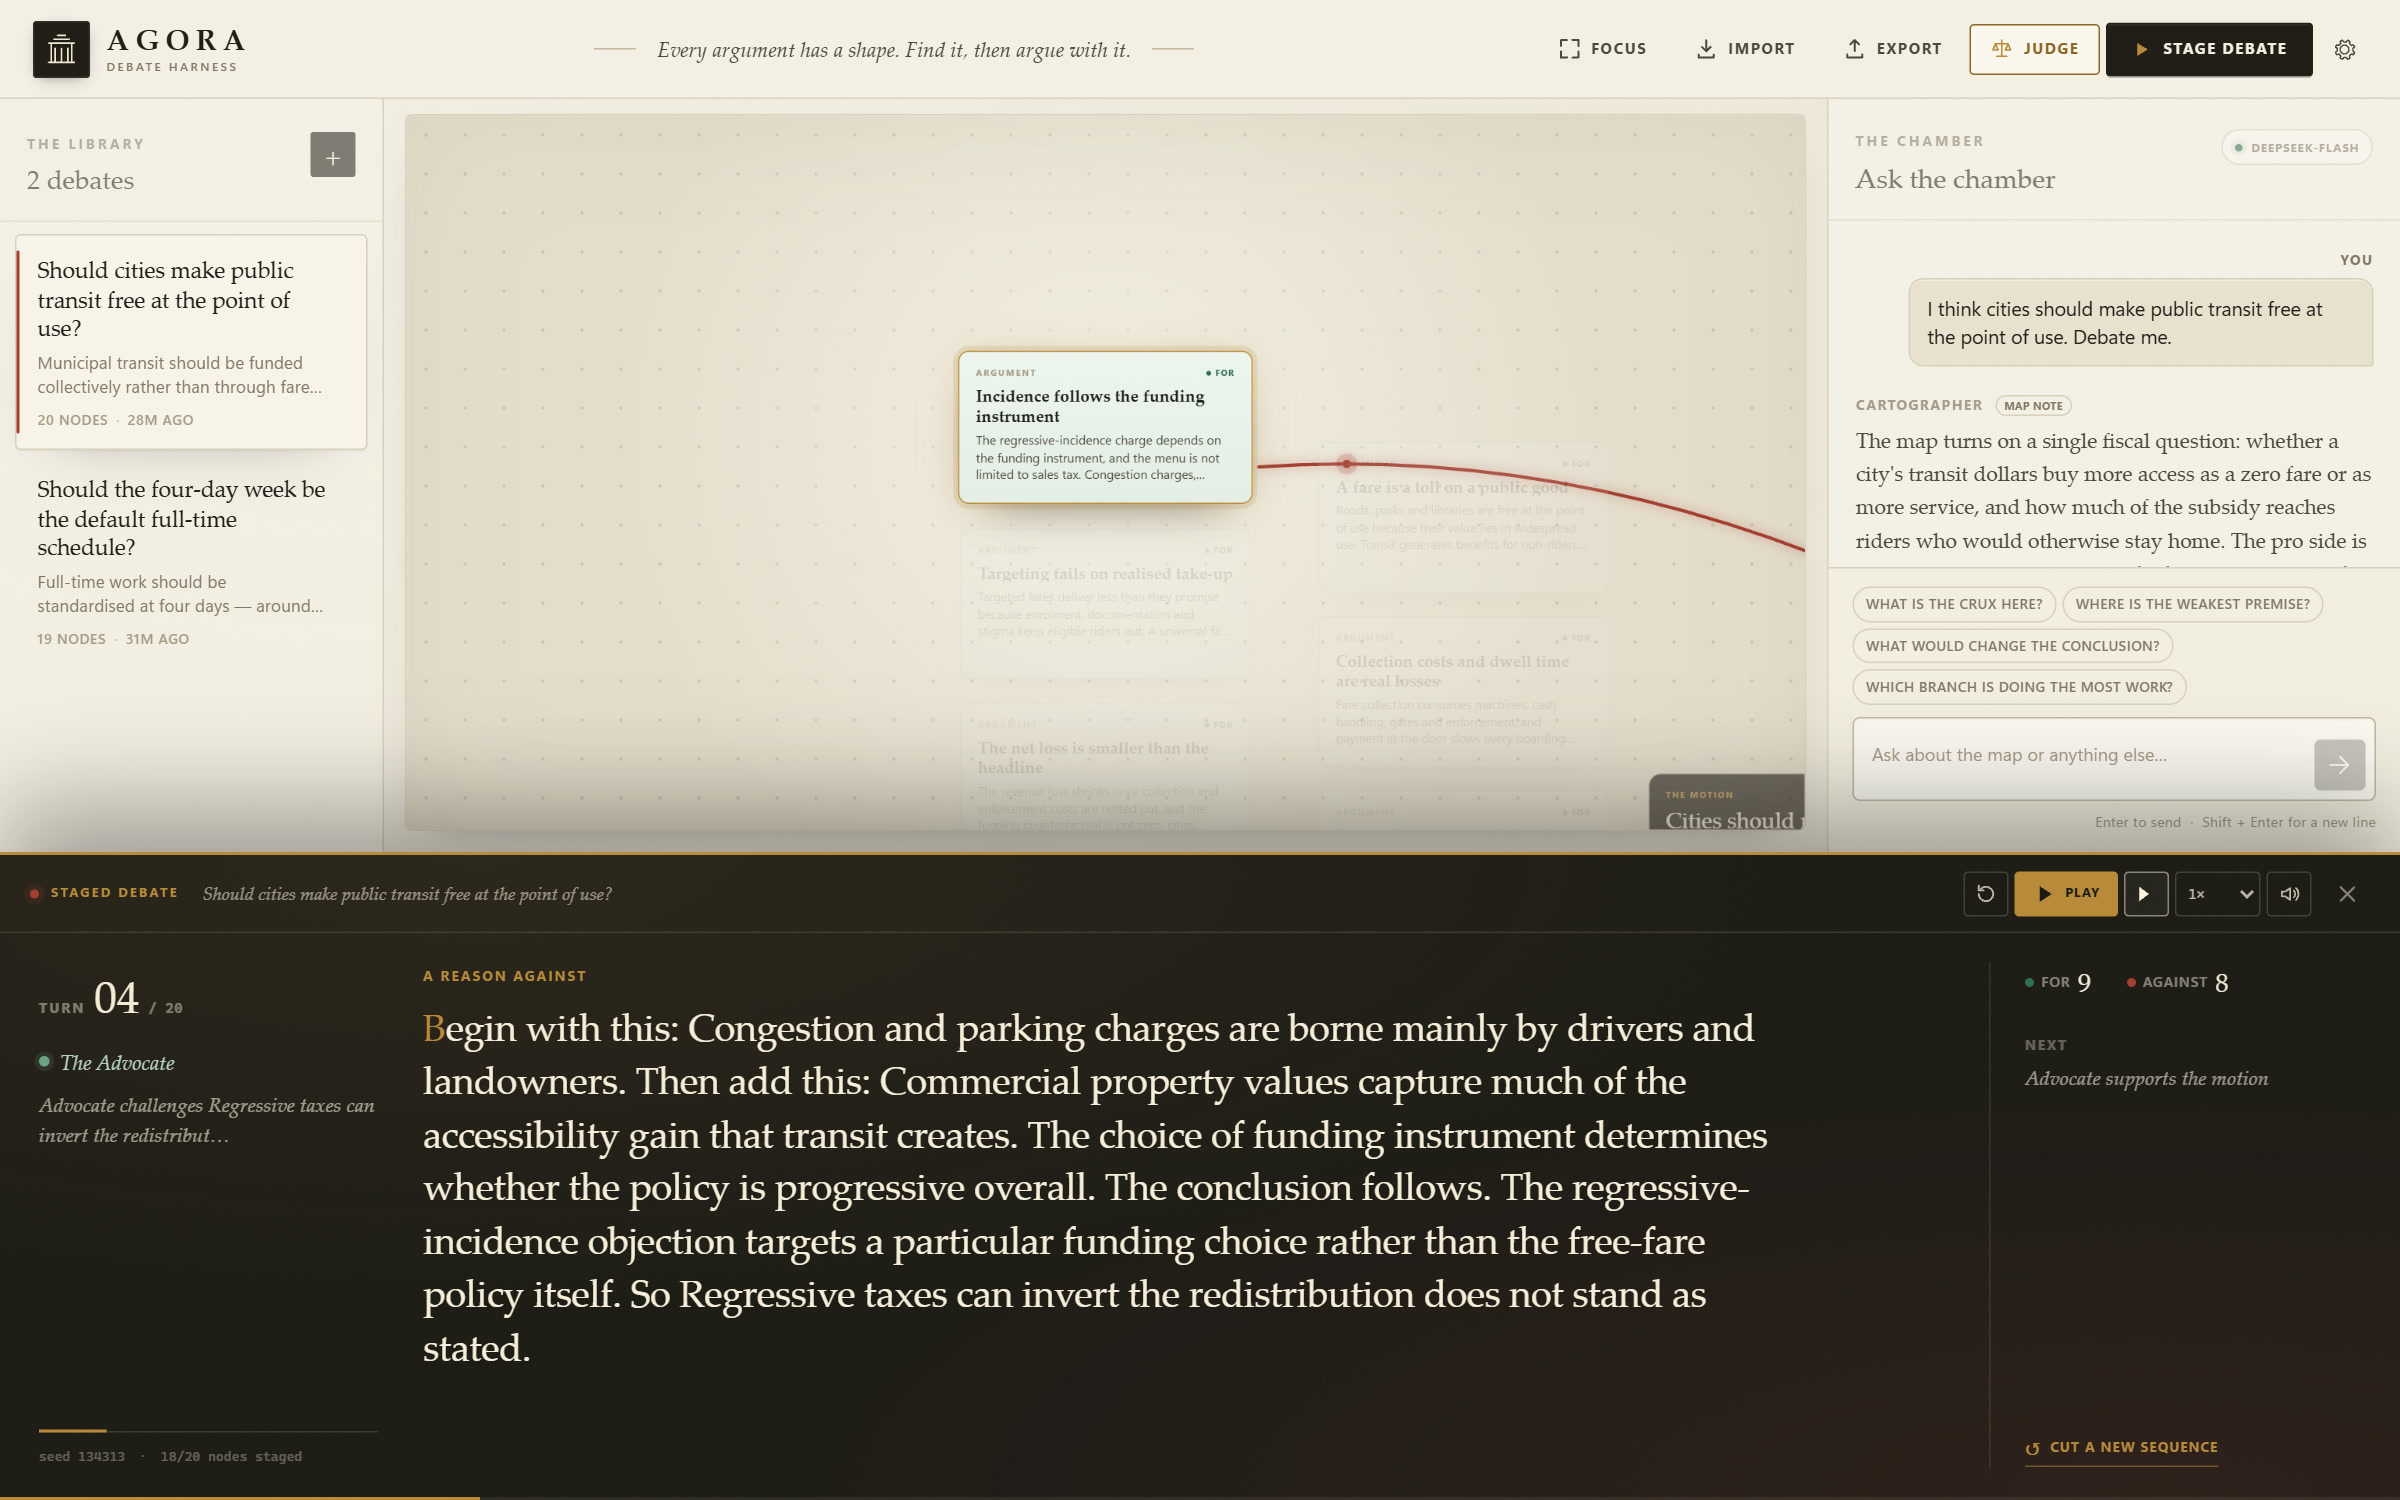
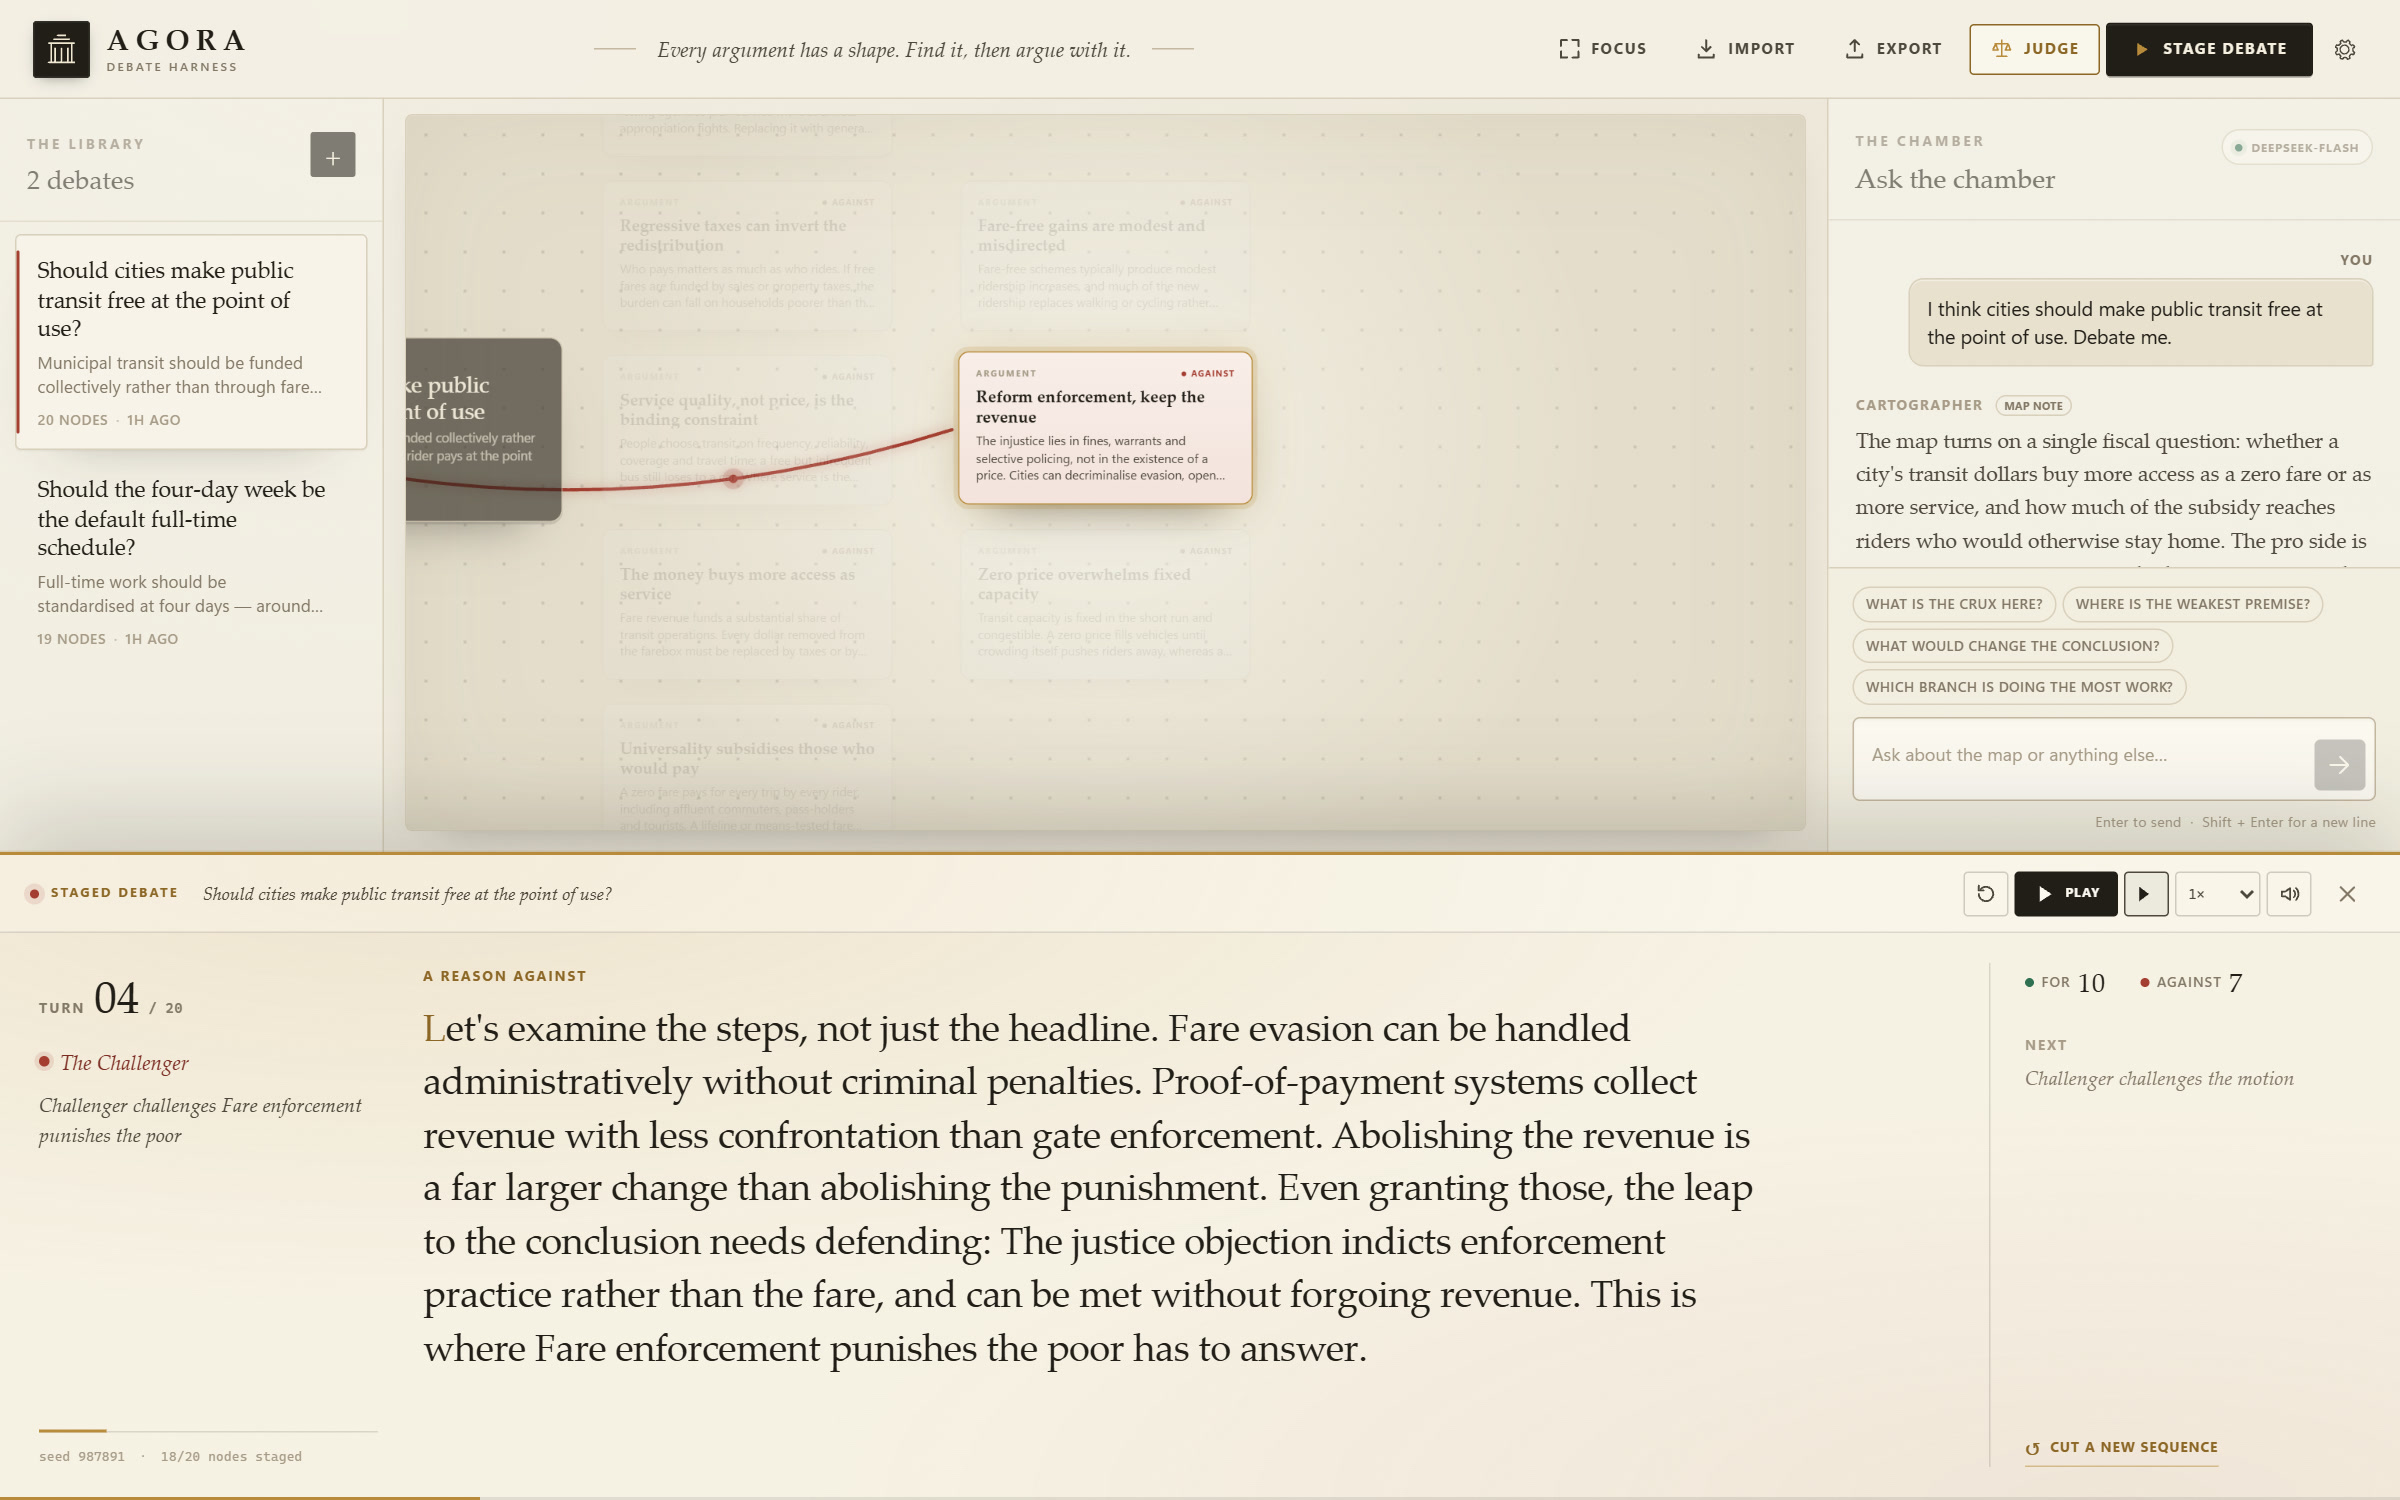
feat: add daylight stage for light mode

diff --git a/src/ui/light.css b/src/ui/light.css
@@ -1,0 +1,107 @@
+/* ------------------------------------------------------------------ */
+/* Editorial paper — a daylight stage                                  */
+/* ------------------------------------------------------------------ */
+
+html[data-theme="light"] .stage-panel {
+  color: var(--ink);
+  background:
+    radial-gradient(ellipse at 18% 0%, rgba(185, 138, 58, 0.13), transparent 50%),
+    radial-gradient(ellipse at 88% 100%, rgba(165, 61, 49, 0.07), transparent 45%),
+    #f8f2e6;
+  border-top-color: var(--gold);
+  box-shadow: 0 -26px 60px rgba(33, 29, 24, 0.16), 0 -1px 0 rgba(185, 138, 58, 0.2);
+}
+html[data-theme="light"] .stage-panel::before { opacity: 0.24; }
+
+html[data-theme="light"] .stage-head {
+  background: rgba(255, 253, 247, 0.32);
+  border-bottom-color: rgba(33, 29, 24, 0.14);
+}
+html[data-theme="light"] .stage-brand { color: var(--gold-deep); }
+html[data-theme="light"] .stage-live-dot {
+  background: var(--con);
+  box-shadow: 0 0 0 4px rgba(165, 61, 49, 0.12);
+}
+html[data-theme="light"] .stage-motion { color: var(--ink-soft); }
+html[data-theme="light"] .stage-icon-btn {
+  border-color: rgba(33, 29, 24, 0.2);
+  color: var(--ink-soft);
+}
+html[data-theme="light"] .stage-icon-btn:hover:not(:disabled) {
+  border-color: var(--ink-soft);
+  color: var(--ink);
+  background: rgba(33, 29, 24, 0.06);
+}
+html[data-theme="light"] .stage-icon-btn.is-on {
+  color: var(--gold-deep);
+  border-color: var(--gold);
+  background: var(--gold-soft);
+}
+html[data-theme="light"] .stage-play-btn {
+  background: var(--ink);
+  border-color: var(--ink);
+  color: var(--surface-strong);
+}
+html[data-theme="light"] .stage-play-btn:hover {
+  background: var(--con-deep);
+  border-color: var(--con-deep);
+}
+html[data-theme="light"] .stage-speed select {
+  border-color: rgba(33, 29, 24, 0.2);
+  color: var(--ink-soft);
+}
+html[data-theme="light"] .stage-speed select option {
+  background: var(--surface-strong);
+  color: var(--ink);
+}
+html[data-theme="light"] .stage-close-btn {
+  color: var(--muted);
+}
+html[data-theme="light"] .stage-close-btn:hover {
+  color: var(--ink);
+  background: rgba(33, 29, 24, 0.07);
+}
+
+html[data-theme="light"] .stage-turn-no { color: var(--muted); }
+html[data-theme="light"] .stage-turn-no b { color: var(--ink); }
+html[data-theme="light"] .stage-speaker { color: var(--ink); }
+html[data-theme="light"] .speaker--advocate { color: var(--pro-deep); }
+html[data-theme="light"] .speaker--advocate .stage-speaker-dot {
+  background: var(--pro-deep);
+  box-shadow: 0 0 0 3px rgba(47, 111, 83, 0.13);
+}
+html[data-theme="light"] .speaker--challenger { color: var(--con-deep); }
+html[data-theme="light"] .speaker--challenger .stage-speaker-dot {
+  background: var(--con);
+  box-shadow: 0 0 0 3px rgba(165, 61, 49, 0.13);
+}
+html[data-theme="light"] .speaker--you { color: var(--gold-deep); }
+html[data-theme="light"] .speaker--you .stage-speaker-dot {
+  background: var(--gold);
+  box-shadow: 0 0 0 3px rgba(185, 138, 58, 0.15);
+}
+html[data-theme="light"] .speaker--moderator { color: var(--ink-soft); }
+html[data-theme="light"] .speaker--moderator .stage-speaker-dot { background: var(--muted); }
+html[data-theme="light"] .stage-heading { color: var(--ink-soft); }
+html[data-theme="light"] .stage-progress { background: rgba(33, 29, 24, 0.14); }
+html[data-theme="light"] .stage-progress i { background: var(--gold); }
+html[data-theme="light"] .stage-seed { color: var(--faint); }
+
+html[data-theme="light"] .stage-kicker { color: var(--gold-deep); }
+html[data-theme="light"] .stage-text { color: var(--ink); }
+html[data-theme="light"] .stage-text::first-letter { color: var(--gold-deep); }
+html[data-theme="light"] .stage-right { border-left-color: rgba(33, 29, 24, 0.14); }
+html[data-theme="light"] .stage-score span { color: var(--muted); }
+html[data-theme="light"] .stage-score b { color: var(--ink); }
+html[data-theme="light"] .stage-next-label { color: var(--faint); }
+html[data-theme="light"] .stage-next { color: var(--muted); }
+html[data-theme="light"] .stage-shuffle {
+  color: var(--gold-deep);
+  border-bottom-color: rgba(185, 138, 58, 0.5);
+}
+html[data-theme="light"] .stage-shuffle:hover {
+  color: var(--con-deep);
+  border-color: var(--con-deep);
+}
+html[data-theme="light"] .stage-progress-bar { background: rgba(33, 29, 24, 0.1); }
+html[data-theme="light"] .stage-progress-bar i { background: var(--gold); }

diff --git a/src/ui/main.tsx b/src/ui/main.tsx
@@ -5,6 +5,7 @@ import { initTheme } from "./theme";
 import "./styles.css";
 import "./dark.css";
 import "./aurora.css";
+import "./light.css";
 
 initTheme();
 

diff --git a/README.md b/README.md
@@ -276,9 +276,10 @@ src/
   ui/
     App.tsx             workspace, library, chamber, stage controller, judgment controller
     components/         DebateGraph, ChatPanel, StagePanel, NodeInspector, JudgmentModal, JudgmentPanel, Modals
-    styles.css          editorial paper / library ink / dark wood stage
+    styles.css          editorial paper / library ink / shared stage
     dark.css            Night Reading Room — warm dark palette
     aurora.css          Aurora — cool low-light palette
+    light.css           Editorial paper — daylight stage
 ```
 
 The domain layer is shared by server and browser. The graph layout and staging algorithm are deterministic given a seed, so the same map stages identically in a test and in the browser.
@@ -338,7 +339,7 @@ See [`SECURITY.md`](SECURITY.md) for the current beta's security limitations, in
 
 ## Why the name
 
-The agora was the public square where a city argued with itself. The interface is deliberately editorial: warm paper, serif headings, ink for the motion, faded red for the challenge, and a dark wood stage for the performance. Aurora keeps that structure while moving the light to a cool, low-light reading room. The map is the argument; the stage is the argument being made; the bench is the argument being judged.
+The agora was the public square where a city argued with itself. The interface is deliberately editorial: warm paper, serif headings, ink for the motion, faded red for the challenge, and a stage that follows the light: dark wood at night, daylight paper by day. Aurora keeps that structure while moving the light to a cool, low-light reading room. The map is the argument; the stage is the argument being made; the bench is the argument being judged.
 
 ## License
 
